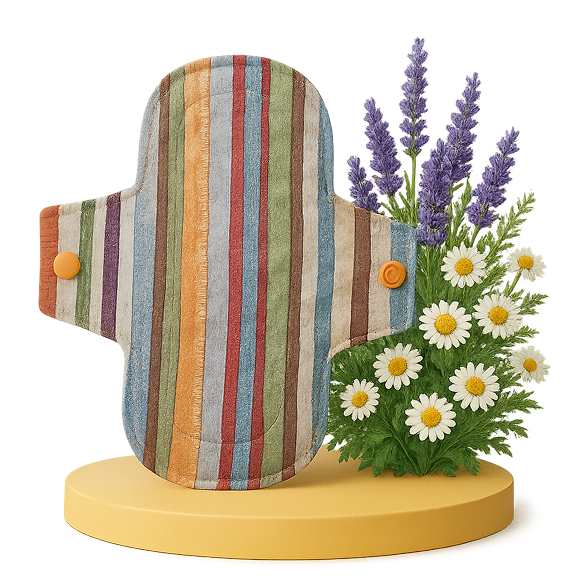
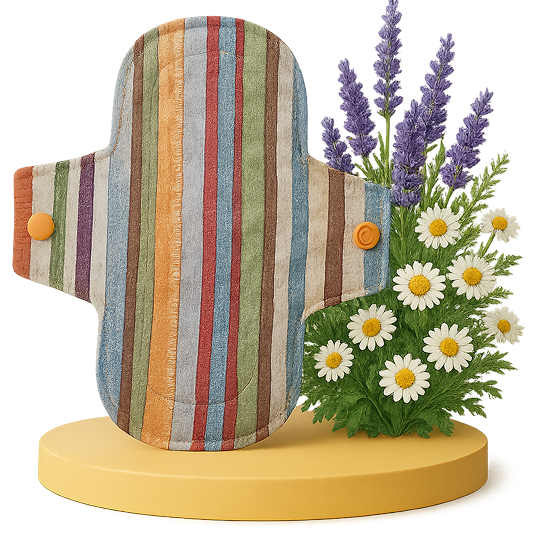
3 secciones terminadas

diff --git a/style.css b/style.css
@@ -5,23 +5,23 @@
 }
 
 body {
+    font-family: Arial, sans-serif;
     background-color: #384b3a;
     justify-content: center;
     max-width: 100%;
-    color: white;
 }
 
 .navbar {
     display: flex;
     align-items: center;
-    padding: 20px 40px;
+
 }
 
 .logo {
     height: 93px;
     width: 141;
     margin-left: 34px;
-    margin-right: 200px;
+    margin-right: 250px;
 }
 
 .nav-links {
@@ -32,14 +32,11 @@ body {
 
 .nav-links li a {
     display: inline-block;
-    /* Necesario para aplicar ancho y alto */
     width: 108px;
     height: 40px;
     line-height: 40px;
-    /* Centra el texto verticalmente */
     text-align: center;
-    /* Centra el texto horizontalmente */
-    color: white;
+    color: #FEF2E7;
     text-decoration: none;
 }
 
@@ -67,7 +64,7 @@ body {
     font-weight: 400;
     line-height: 93px;
     /* 145.313% */
-    letter-spacing: 0.1px;
+    letter-spacing: 0.9px;
 }
 
 .hero-texto .resaltado {
@@ -77,7 +74,7 @@ body {
     font-style: normal;
     font-weight: 400;
     line-height: 93px;
-    letter-spacing: 0.1px;
+    letter-spacing: 0.9px;
 }
 
 .hero-texto p {
@@ -89,23 +86,135 @@ body {
     font-style: normal;
     font-weight: 500;
     line-height: 27px;
-    letter-spacing: 0.1px;
+    letter-spacing: 0.9px;
 }
 
 .boton {
     margin-top: 20px;
-    display: inline-block;
-    background-color: #86633e;
-    color: white;
-    padding: 12px 24px;
+    display: flex;
+    width: 192px;
+    height: 48px;
+    justify-content: center;
+    align-items: center;
+    flex-shrink: 0;
+    background: #7D6345;
+    color: #FEF2E7;
     text-decoration: none;
-    font-weight: bold;
-    box-shadow: 2px 2px 5px rgba(0, 0, 0, 0.4);
+    /* M3/Elevation Light/3 */
+    box-shadow: 0px 4px 8px 3px rgba(0, 0, 0, 0.15), 0px 1px 3px 0px rgba(0, 0, 0, 0.30);
+
+}
+
+.boton:hover {
+    background-color: #a18464;
 }
 
 .hero-imagen img {
-    width: 580px;
-    height: 580px;
+    width: 533px;
+    height: 549px;
+    margin-right: 34px;
     flex-shrink: 0;
-    aspect-ratio: 1/1;     
+    aspect-ratio: 1/1;
+}
+
+.beneficios {
+    background-color: #7E6345;
+    padding: 20px 0;
+    color: #FEF2E7;
+    font-family: Georgia, serif;
+    font-size: 16px;
+    font-weight: 500;
+}
+
+.beneficios ul {
+    list-style: none;
+    display: flex;
+    justify-content: center;
+    align-items: center;
+
+    margin: 0;
+    padding: 0;
+}
+
+.beneficios li {
+    position: relative;
+    padding-left: 85px;
+    padding-right: 85px;
+    text-align: center;
+}
+
+.beneficios li:not(:last-child)::after {
+    content: "";
+    position: absolute;
+    right: 0;
+    top: 0;
+    height: 100%;
+    width: 1px;
+    background-color: white;
+}
+
+.porque-elegir {
+    background-color: #4c6247;
+    color: white;
+    text-align: center;
+    padding: 60px 20px;
+}
+
+.porque-elegir h2 {
+    color: #FEF2E7;
+    text-align: center;
+    font-family: "DM Serif Display";
+    font-size: 36px;
+    font-style: italic;
+    font-weight: 1000;
+    line-height: 40px;
+    letter-spacing: 0.9px;
+    margin-bottom: 80px;
+}
+
+.porque-elegir h2 span {
+    color: #E3C064;
+    font-style: italic;
+}
+
+.porQue-contenedor {
+    display: flex;
+    justify-content: center;
+    gap: 60px;
+    flex-wrap: wrap;
+    max-width: 1200px;
+    margin: 0 auto;
+}
+
+.porQue {
+    max-width: 300px;
+}
+
+.porQue img {
+    color: #FEF4E6;
+    height: 50px;
+    margin-bottom: 20px;
+}
+
+.porQue h3 {
+    color: #E3C064;
+    text-align: center;
+    font-family: "DM Serif Display";
+    font-size: 20px;
+    font-style: normal;
+    letter-spacing: 0.9px;
+    margin-bottom: 20px;
+}
+
+.porQue p {
+    width: 219px;
+    color: #FEF4E6;
+
+    text-align: center;
+    font-family: "Della Respira";
+    font-size: 18px;
+    font-style: normal;
+    font-weight: 300;
+    line-height: 20px;
+    letter-spacing: 0.9px;
 }

diff --git a/index.html b/index.html
@@ -1,11 +1,13 @@
 <!DOCTYPE html>
 <html lang="es">
+
 <head>
   <meta charset="UTF-8" />
-  <meta name="viewport" content="width=device-width, initial-scale=1.0"/>
+  <meta name="viewport" content="width=device-width, initial-scale=1.0" />
   <title>Vivra</title>
   <link rel="stylesheet" href="style.css" />
 </head>
+
 <body>
   <header class="navbar">
     <img src="img/Logo Navbar.png" alt="Logo Vivra" class="logo" />
@@ -34,5 +36,36 @@
       <img src="img/ToallitaBanner.png" alt="Producto Vivra" />
     </div>
   </section>
+  <section class="beneficios">
+    <ul>
+      <li>Ultra absorbente</li>
+      <li>Sin olores</li>
+      <li>Tela suave en contacto con la piel</li>
+      <li>Reutilizable</li>
+      <li>Cuida el planeta</li>
+    </ul>
+  </section>
+  <section class="porque-elegir">
+  <h2>Por qué elegir <span>Vivra</span></h2>
+  <div class="porQue-contenedor">
+    
+    <div class="porQue">
+      <img src="img/icono-corazon.png" alt="Salud y Comodidad">
+      <h3>Salud y<br>Comodidad</h3>
+      <p>Al optar por toallitas ecológicas, te estás protegiendo de la exposición a productos químicos dañinos y promoviendo una menstruación más saludable y segura.</p>
+    </div>
+    <div class="porQue">
+      <img src="img/icono-dinero.png" alt="Ahorro económico">
+      <h3>Ahorro<br>económico</h3>
+      <p>Aunque la inversión inicial puede ser mayor, las toallitas de tela son reutilizables entre 2 a 4 años, representando un ahorro significativo a mediano y largo plazo para las usuarias.</p>
+    </div>
+    <div class="porQue">
+      <img src="img/icono-planeta.png" alt="Materiales naturales">
+      <h3>Materiales<br>naturales</h3>
+      <p>Las toallitas son confeccionadas con telas de algodón y otros materiales amigables, brindando comodidad y cuidado para tu cuerpo y el planeta.</p>
+    </div>
+  </div>
+</section>
 </body>
+
 </html>
